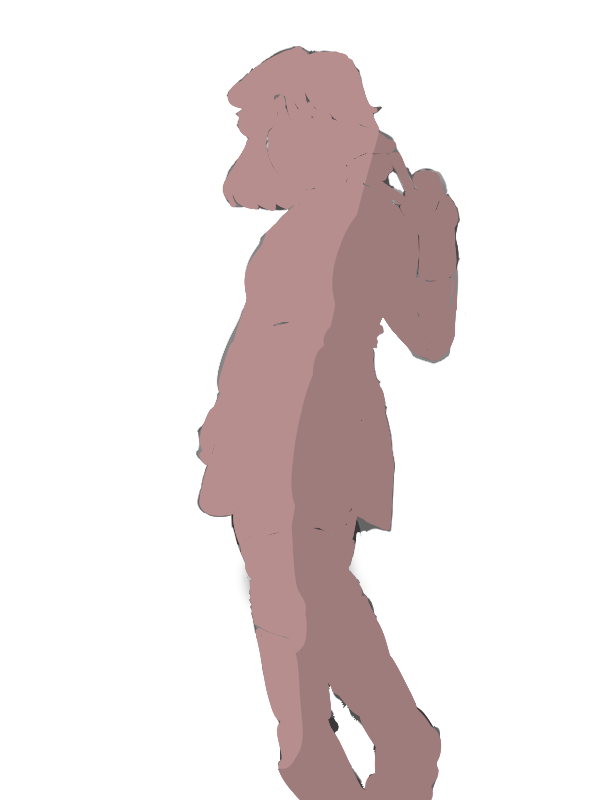
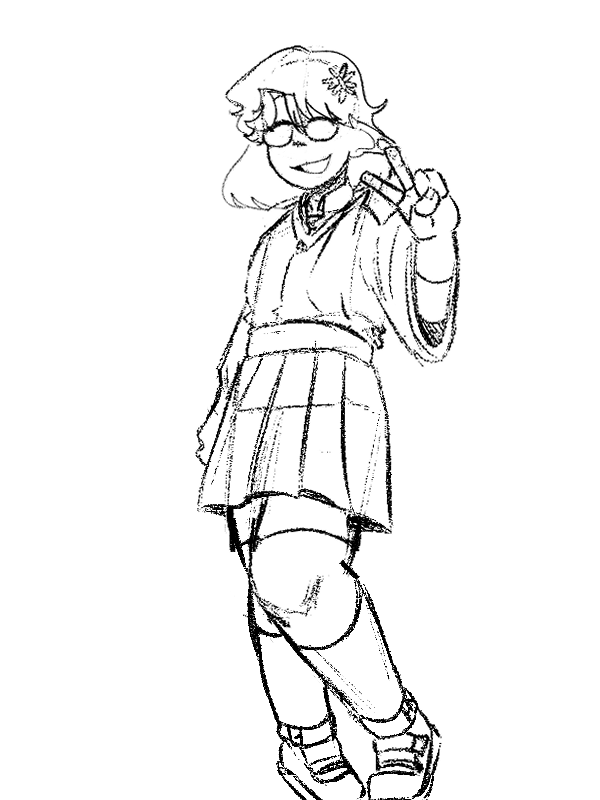
Atualização 10

Changed region(s): [[0.33, 0.0312, 0.78, 1.0]]

diff --git a/script.js b/script.js
@@ -16,7 +16,7 @@ const labels = {
 };
 const previewFiles = {
   style:{sketch:"Sketch",lineart:"Lineart"},
-  color:{none:null,bw:"preto-e-branco",color:"colorido"},
+  color:{none:"sem-cor",bw:"preto-e-branco",color:"colorido"},
   bg:{simple:"simples",detailed:"detalhado"}
 };
 const brl = n => n.toLocaleString("pt-BR",{style:"currency",currency:"BRL"});
@@ -44,22 +44,54 @@ function updatePreview(){
       return;
     }
     if(img.getAttribute("src")===encodedSrc){
-      if(img.complete && img.naturalWidth>0) img.hidden=false;
+      if(img.complete && img.naturalWidth>0){
+        img.hidden=false;
+        img.style.opacity="1";
+      }
       return;
     }
-    img.hidden=true;
-    img.onload=()=>{
-      if(img.getAttribute("src")!==encodedSrc) return;
+    img.dataset.requestedSrc=encodedSrc;
+    const nextImage=new Image();
+    nextImage.onload=()=>{
+      if(img.dataset.requestedSrc!==encodedSrc) return;
+      const hasCurrentImage=!img.hidden && img.complete && img.naturalWidth>0;
+      let previousImage=null;
+      if(hasCurrentImage){
+        previousImage=img.cloneNode();
+        previousImage.removeAttribute("id");
+        previousImage.setAttribute("aria-hidden","true");
+        previousImage.classList.add("preview-old-layer");
+        previousImage.style.transform=getComputedStyle(img).transform;
+        previousImage.style.opacity="1";
+        img.after(previousImage);
+      }
       img.hidden=false;
-      updatePreviewPlaceholder();
+      img.style.opacity="0";
+      img.onload=()=>{
+        if(img.getAttribute("src")===encodedSrc) updatePreviewPlaceholder();
+      };
+      img.onerror=()=>{
+        if(img.getAttribute("src")===encodedSrc){
+          console.warn(`Imagem da prévia não encontrada: ${src}`);
+          updatePreviewPlaceholder();
+        }
+      };
+      img.src=encodedSrc;
+      void img.offsetWidth;
+      setTimeout(()=>{
+        if(img.getAttribute("src")===encodedSrc) img.style.opacity="1";
+        if(previousImage){
+          previousImage.style.opacity="0";
+          setTimeout(()=>previousImage.remove(),300);
+        }
+      },20);
     };
-    img.onerror=()=>{
-      if(img.getAttribute("src")!==encodedSrc) return;
-      img.hidden=true;
-      console.warn(`Imagem da prévia não encontrada: ${src}`);
-      updatePreviewPlaceholder();
+    nextImage.onerror=()=>{
+      if(img.dataset.requestedSrc===encodedSrc){
+        console.warn(`Imagem da prévia não encontrada: ${src}`);
+      }
     };
-    img.src=encodedSrc;
+    nextImage.src=encodedSrc;
   });
   updatePreviewPlaceholder();
   $("previewDescription").textContent=[labels.style[state.style],labels.size[state.size],labels.color[state.color],labels.bg[state.bg]].join(" · ");

diff --git a/style.css b/style.css
@@ -519,16 +519,21 @@ header {
 }
 
 .preview-stage {
-    aspect-ratio: 4/5;
+    aspect-ratio: 1/1;
     max-height: 500px;
     background: #f3e8dc;
-    border-radius: 9px;
+    border-radius: 0;
     overflow: hidden;
+    transition: border-radius 650ms cubic-bezier(.2, .75, .25, 1);
 
     position: relative;
 
     display: grid;
     place-items: center;
+}
+
+#previewStage[data-size="head"] {
+    border-radius: 50%;
 }
 
 .preview-stage:before {
@@ -545,17 +550,18 @@ header {
     height: 100%;
     object-fit: contain;
     z-index: 2;
+    transition: opacity 260ms ease;
 }
 
 #previewStage #prevBase,
 #previewStage #prevColor {
-    transition: transform 650ms cubic-bezier(.2, .75, .25, 1);
+    transition: transform 650ms cubic-bezier(.2, .75, .25, 1), opacity 260ms ease;
     transform-origin: center;
 }
 
 #previewStage[data-size="head"] #prevBase,
 #previewStage[data-size="head"] #prevColor {
-    transform: translate(-15.4%, 144%) scale(4.4);
+    transform: translate(0, 130%) scale(4);
 }
 
 #previewStage[data-size="half"] #prevBase,
@@ -1004,6 +1010,11 @@ footer {
 
     .category-window {
         scroll-behavior: auto;
+    }
+
+    .preview-stage,
+    .preview-stage img {
+        transition-duration: .01ms;
     }
 }
 

diff --git a/imagens/calculadora/README.md b/imagens/calculadora/README.md
@@ -7,12 +7,14 @@ calculadora/
 |-- Sketch/
 |   |-- personagem.png
 |   |-- cores/
+|   |   |-- sem-cor.png
 |   |   |-- preto-e-branco.png
 |   |   `-- colorido.png
 |   `-- enquadramento/ (pode ficar vazia)
 |-- Lineart/
 |   |-- personagem.png
 |   |-- cores/
+|   |   |-- sem-cor.png
 |   |   |-- preto-e-branco.png
 |   |   `-- colorido.png
 |   `-- enquadramento/ (pode ficar vazia)
@@ -31,7 +33,7 @@ calculadora/
 ## Como preparar as camadas
 
 - **`personagem.png`**: desenho-base sem cenário, em PNG com fundo transparente. Faça um arquivo para Sketch e outro para Lineart.
-- **`cores/*.png`**: apenas a pintura/sombra da opção correspondente, também transparente e alinhada ao `personagem.png`. O traço fica acima dessa camada. Para **Sem cor**, não é necessário criar uma camada.
+- **`cores/*.png`**: camada correspondente à coloração escolhida, transparente e alinhada ao `personagem.png`. O traço fica acima dessa camada. Inclua também **`sem-cor.png`** para a opção **Sem cor**.
 - **Enquadramento**: o site aproxima a camada do personagem com uma transição; não é necessário criar imagens diferentes para Headshot, Half-body ou Full-body.
 - **`cenarios/blank.png`**: imagem exibida quando **Sem cenário** estiver selecionado.
 - **`cenarios/simples/*.png`** e **`cenarios/detalhado/*.png`**: cenário da opção escolhida, sem o personagem. Essas imagens são compartilhadas por Sketch e Lineart. Para cada tipo de cenário, crie as versões sem cor, em preto e branco e colorida.
